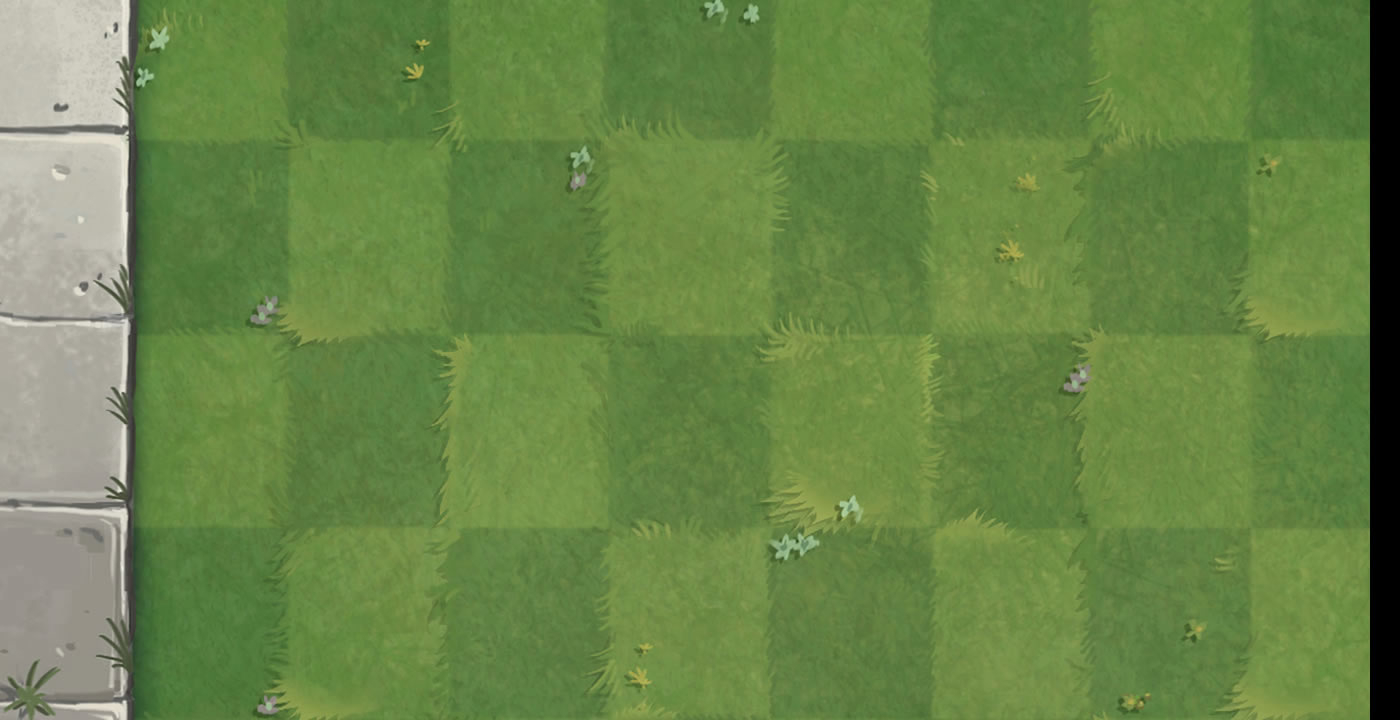
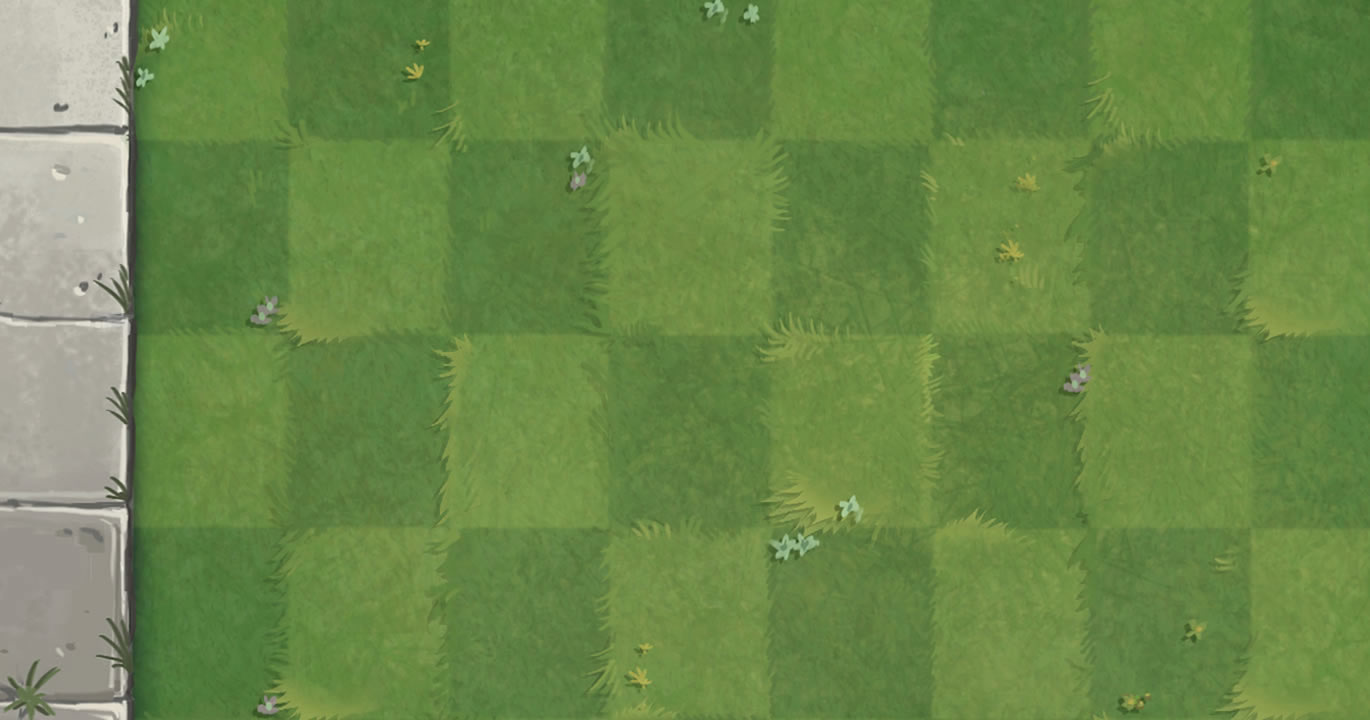
looks good on chrome, not on IE, testing on mobile

diff --git a/public/assets/javascript/startGame.js b/public/assets/javascript/startGame.js
@@ -3,7 +3,7 @@ window.addEventListener("load",function() {
     .include('Sprites, Scenes, 2D, UI, Input, Touch, Audio')
     .include('ZombiesEnemies, ZombiesGUI, ZombiesHeroes, ZombiesGameplay')
     .setup({ 
-      width: 1400,
+      width: 1412,
       height: 720,
       scaleToFit: true
       // maximize: true 

diff --git a/public/assets/styles/style.css b/public/assets/styles/style.css
@@ -265,8 +265,6 @@ input:checked + .slider:before {
 }
 canvas {
   margin: 0px;
-  border-top: 8px solid green;
-  border-bottom: 8px solid green;
 }
 .sidePanel {
   border: 1px solid green;
